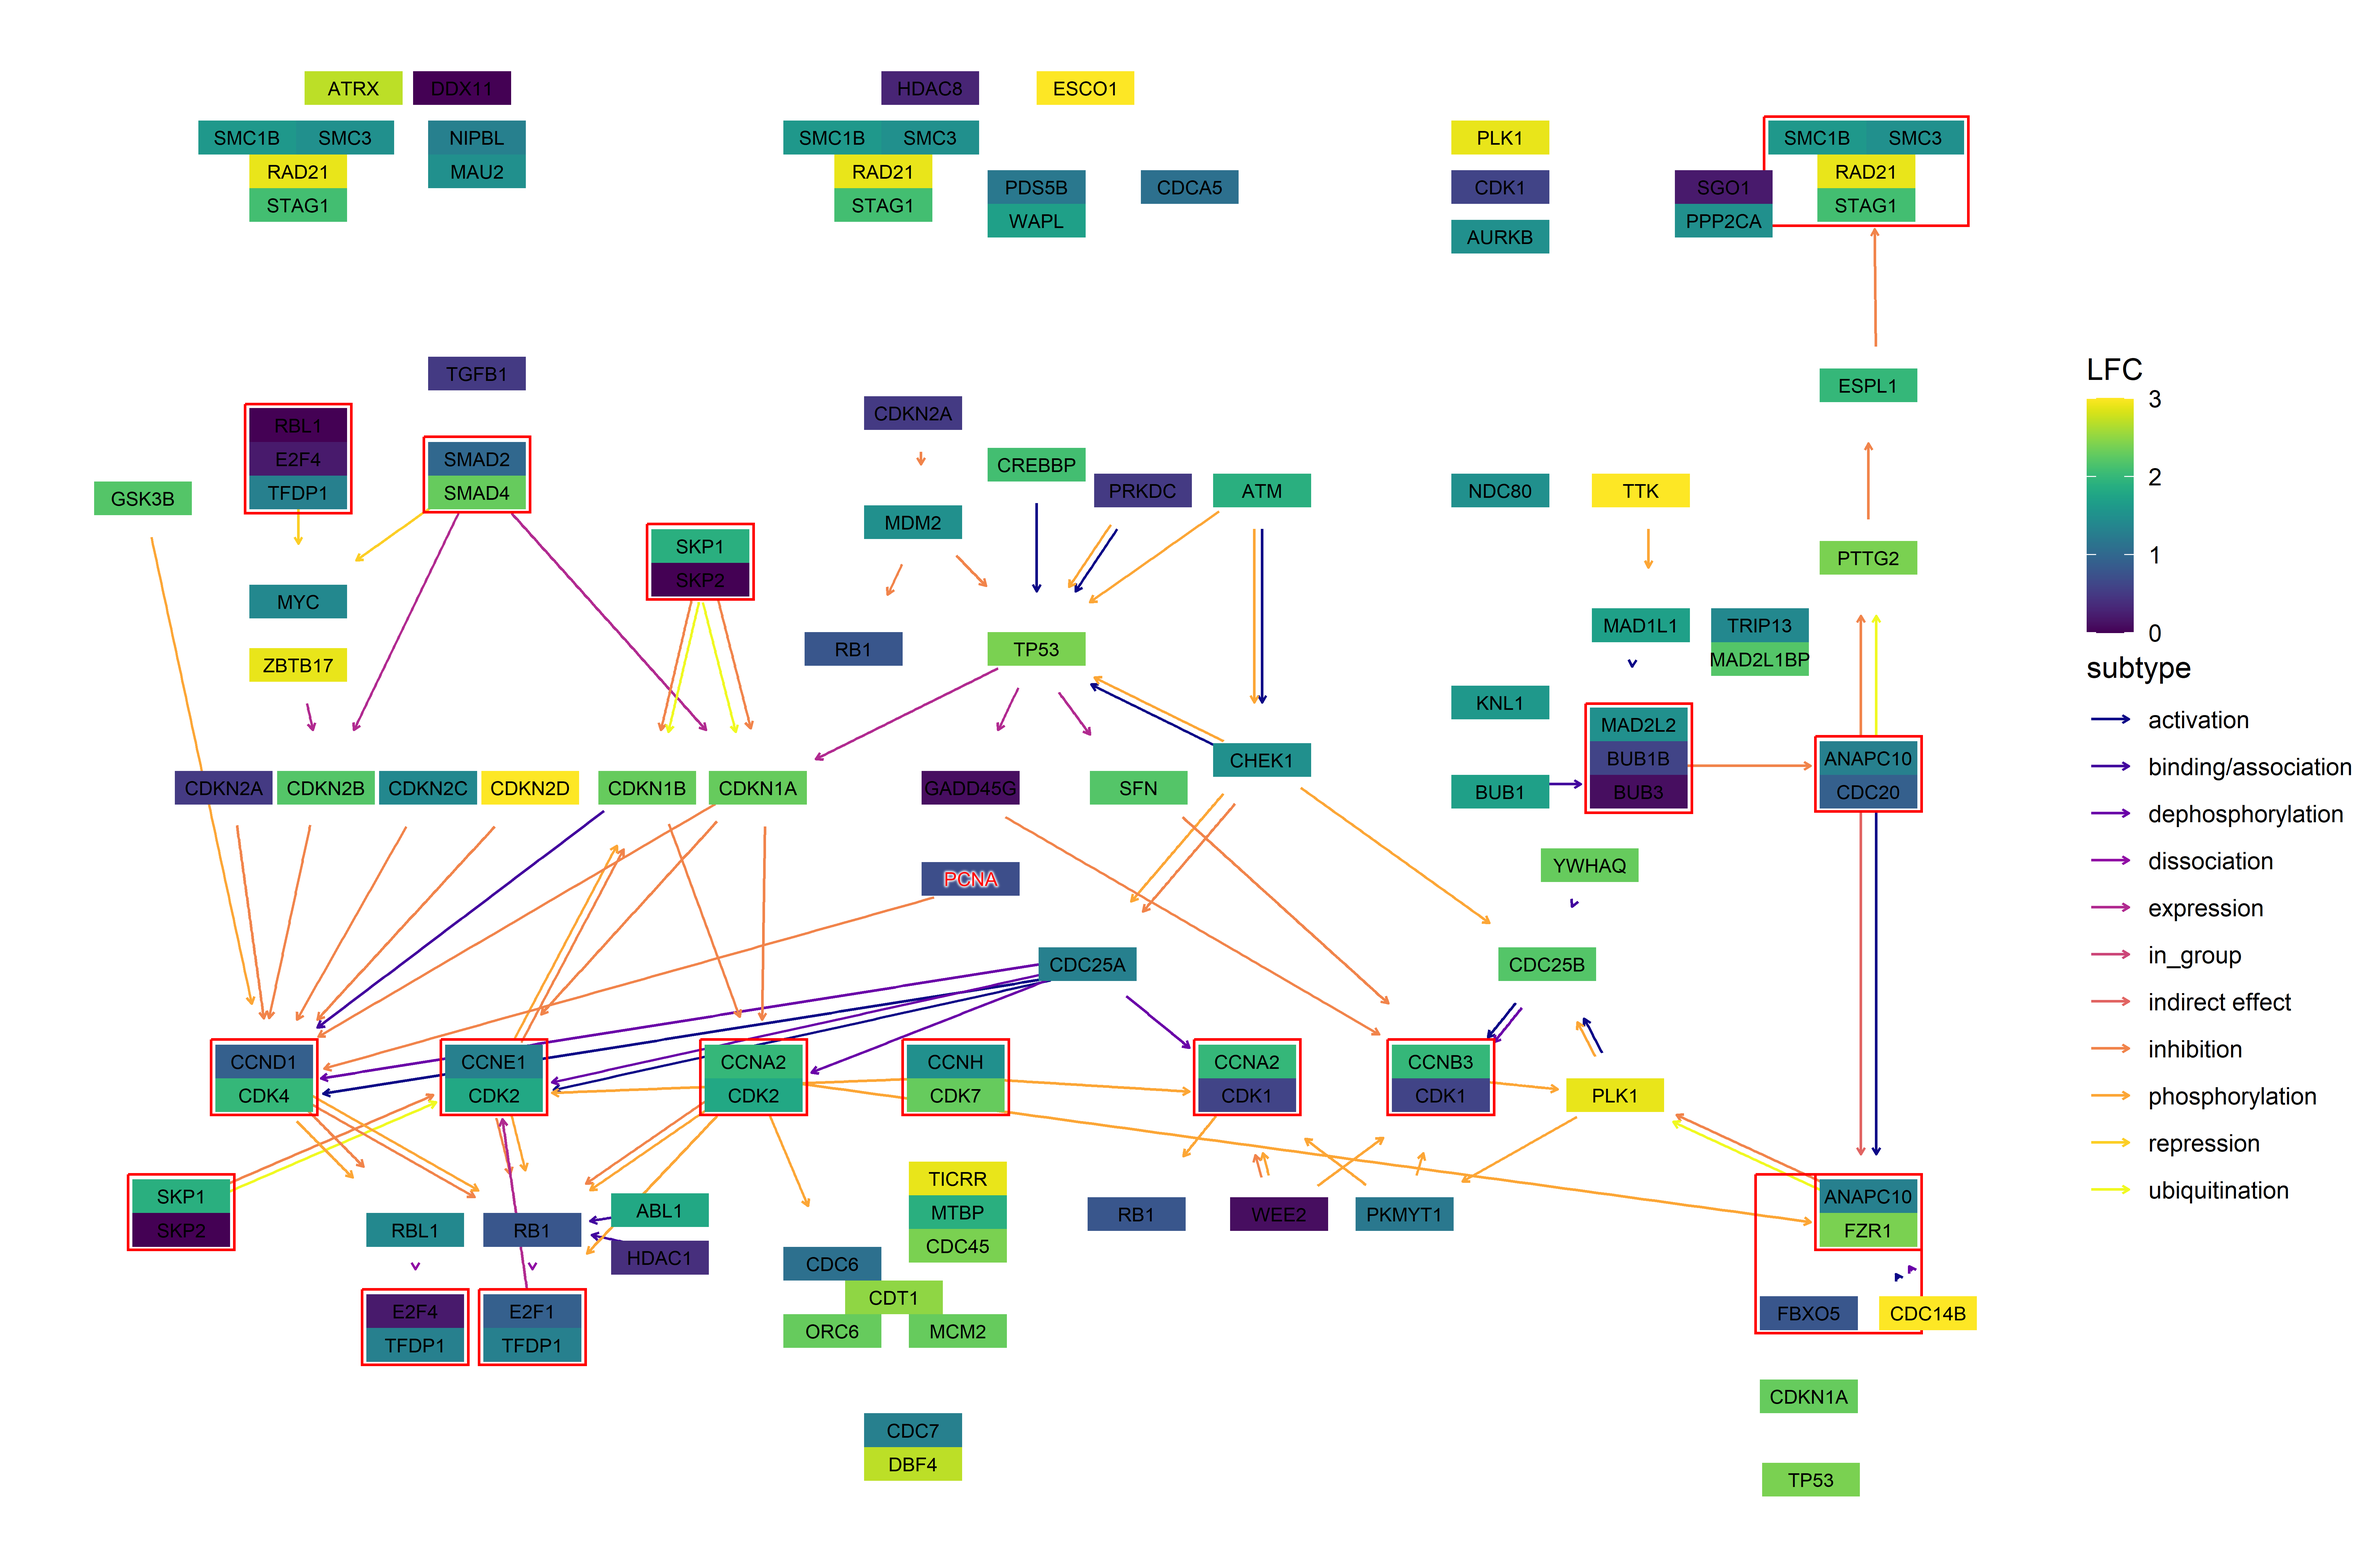
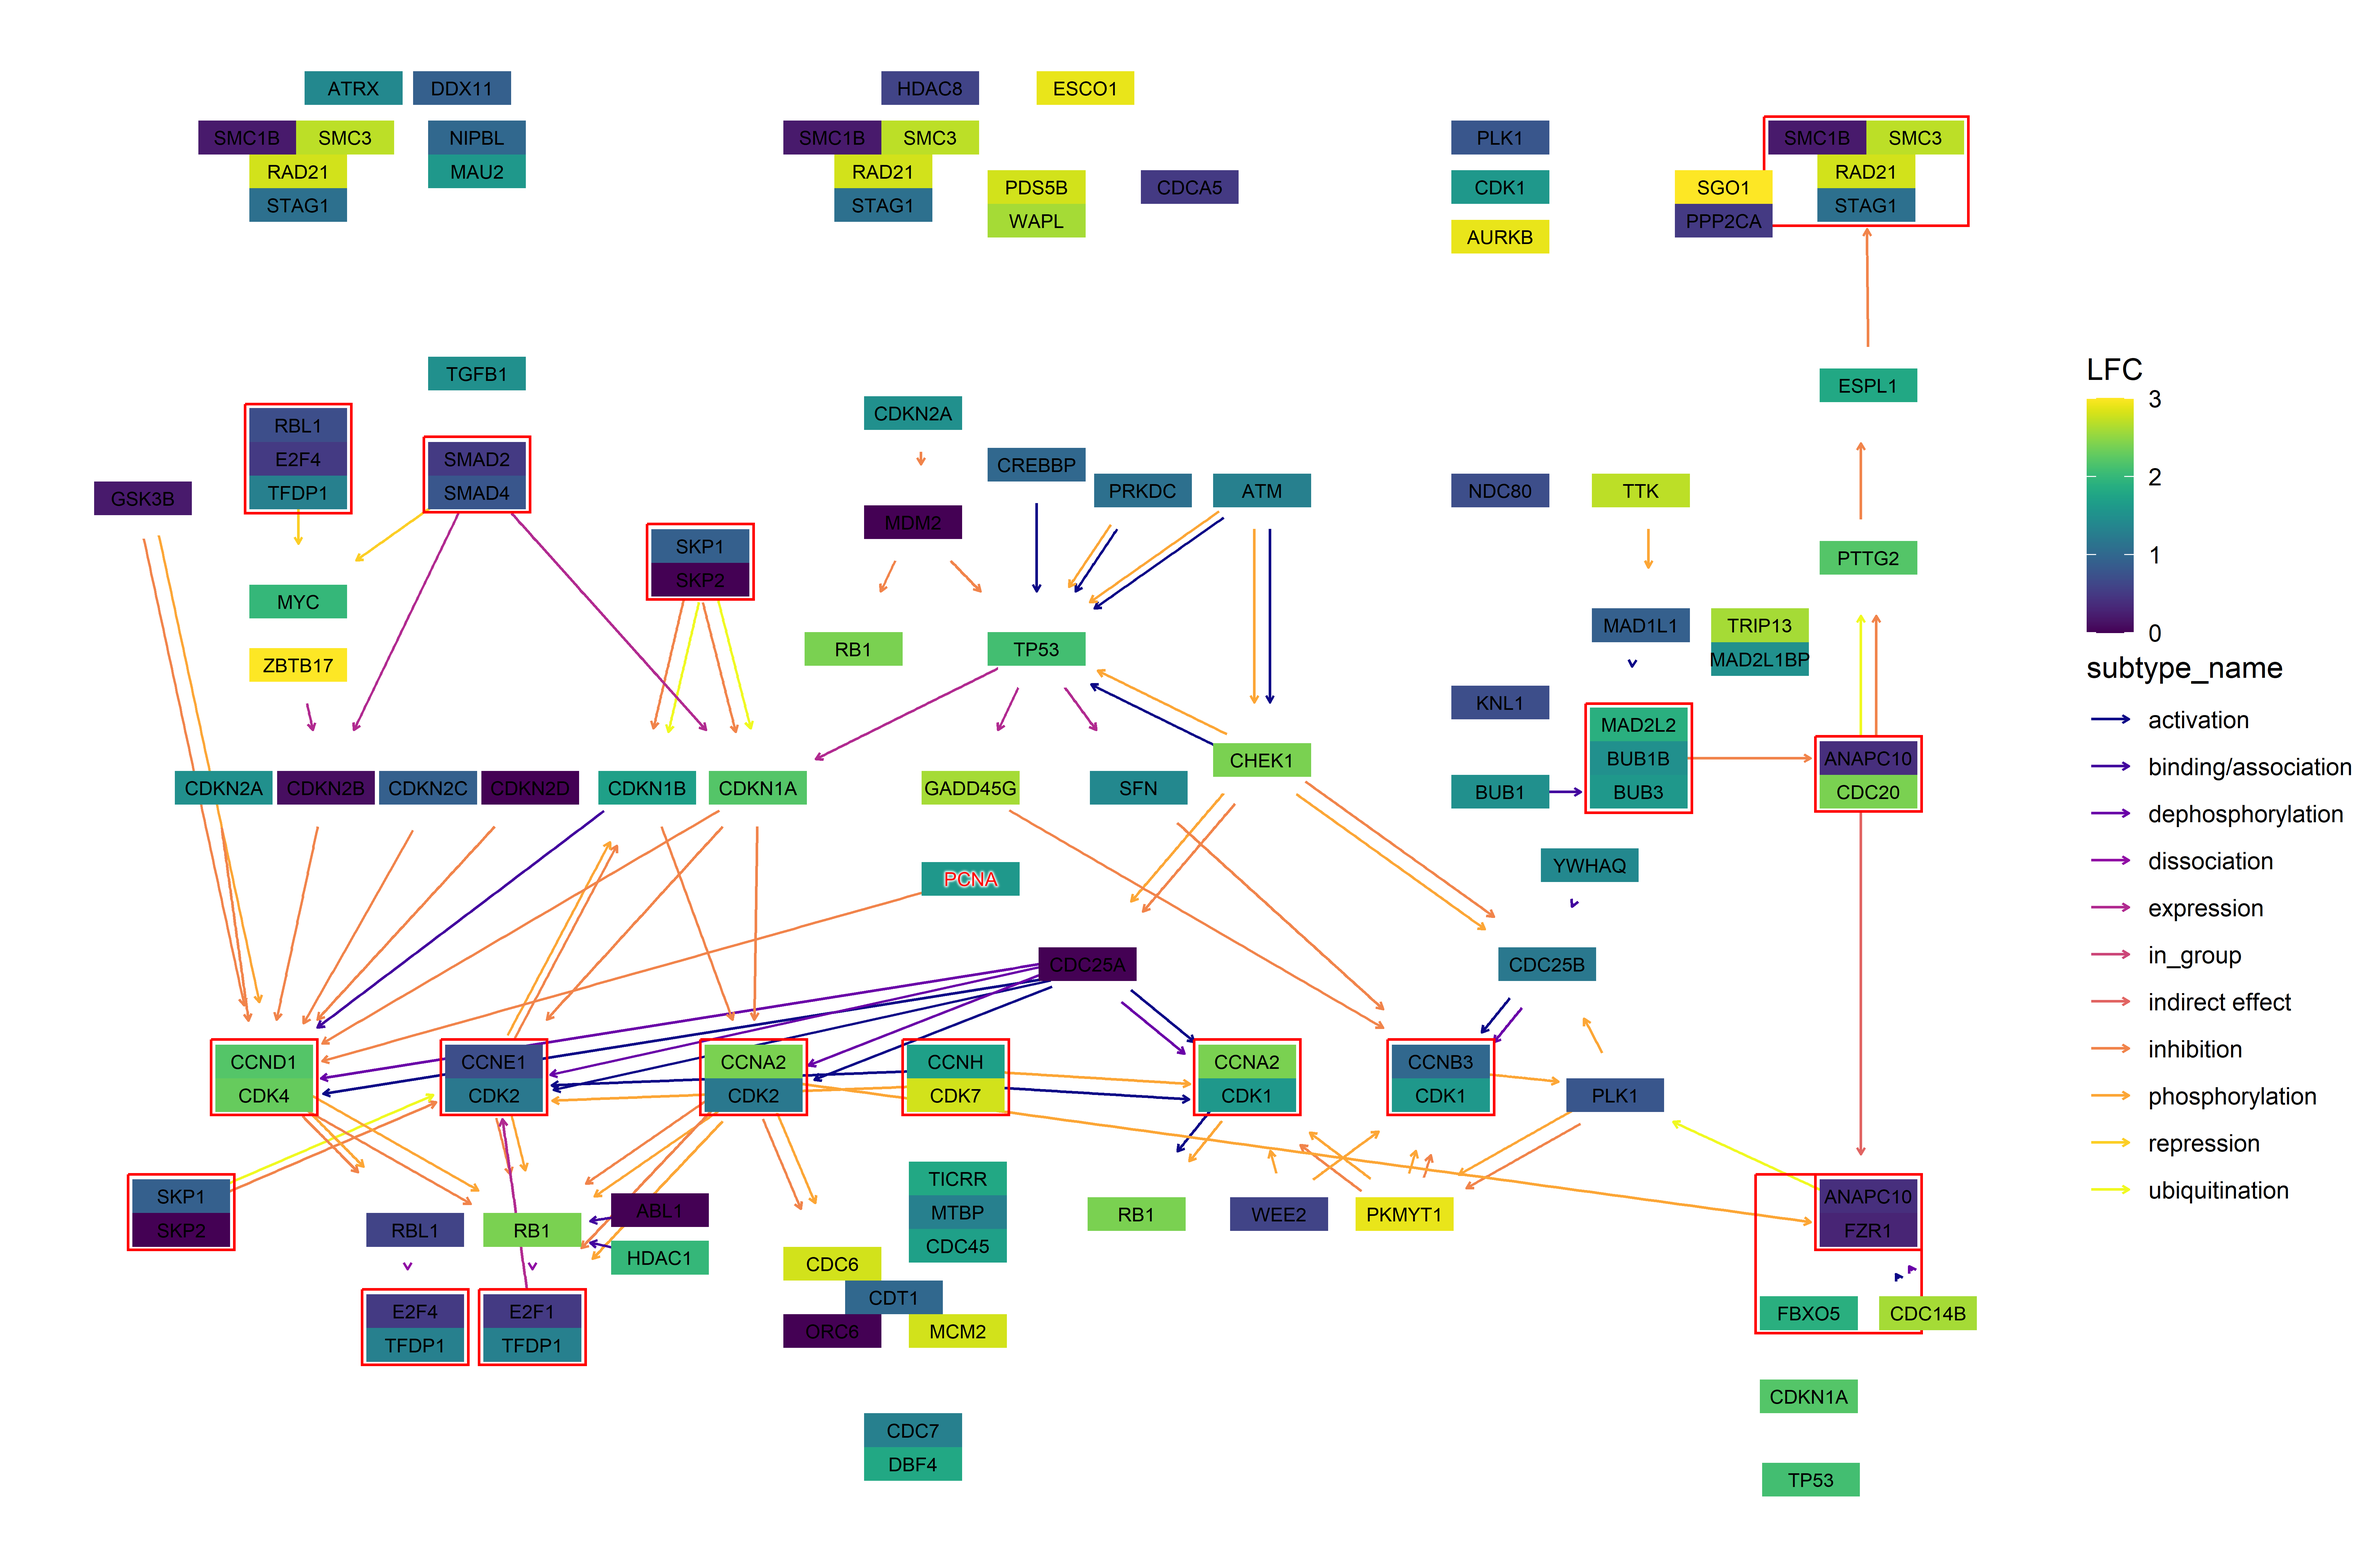
update README.md

diff --git a/README.md b/README.md
@@ -83,8 +83,8 @@ names(pseudo_lfc) <- V(g)$name
 ggkegg("hsa04110",
        convert_org = c("pathway","hsa","ko"),
        numeric_attribute = pseudo_lfc)+
-  geom_edge_parallel(
-    aes(color=subtype),
+  geom_edge_parallel2(
+    aes(color=subtype_name),
     arrow = arrow(length = unit(1, 'mm')), 
     start_cap = square(1, 'cm'),
     end_cap = square(1.5, 'cm')) + 
